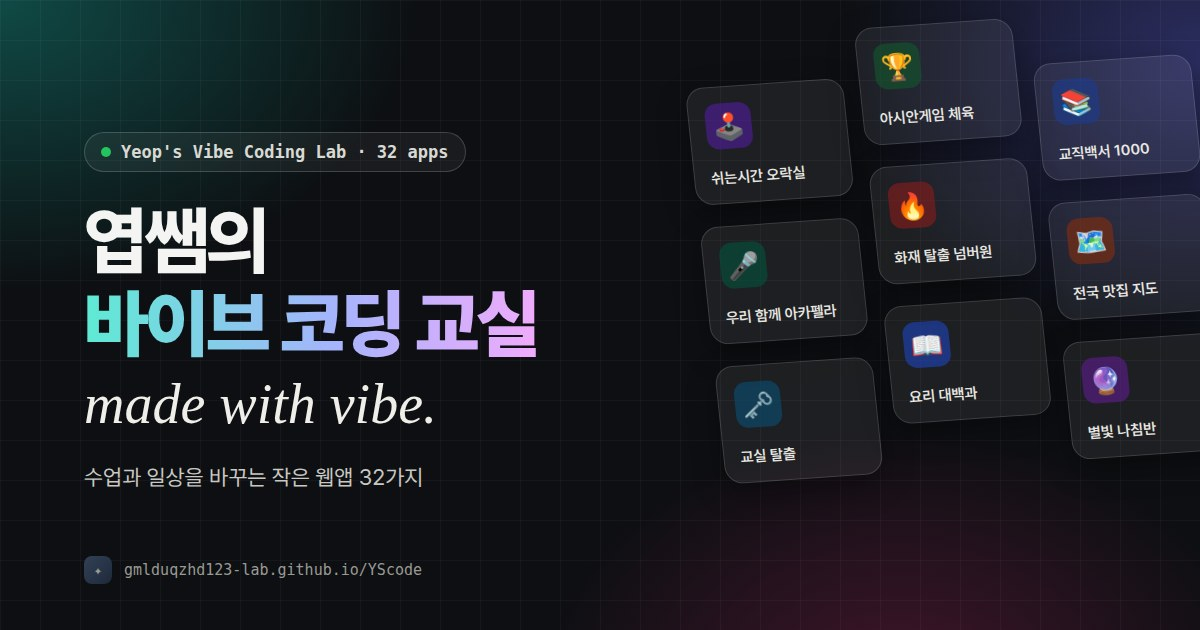
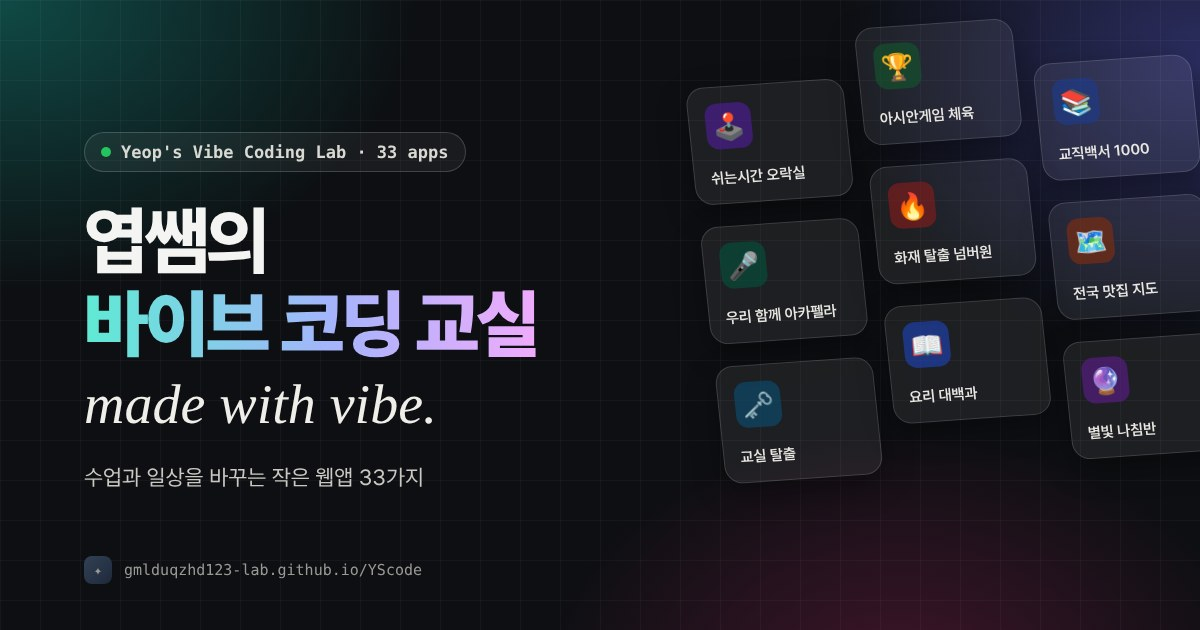
모음집에 책숲(수업용) 추가, 공유 정보 33가지로 갱신, 스킬에 공유 그림 스크립트 추가 (#54)
Claude-Session: https://claude.ai/code/session_01NaW5r8WBzNy5B2e9iMgdZz

diff --git a/index.html b/index.html
@@ -16,18 +16,18 @@
     <meta name="apple-mobile-web-app-status-bar-style" content="black-translucent">
     <meta property="og:type" content="website">
     <meta property="og:title" content="엽쌤의 바이브 코딩 교실">
-    <meta property="og:description" content="수업과 일상을 바꾸는 작은 웹앱 32가지 · 설치 없이 바로 열려요">
+    <meta property="og:description" content="수업과 일상을 바꾸는 작은 웹앱 33가지 · 설치 없이 바로 열려요">
     <meta property="og:site_name" content="엽쌤스쿨">
-    <meta property="og:image" content="https://gmlduqzhd123-lab.github.io/YScode/og-image.jpg?v=20261026">
-    <meta property="og:image:secure_url" content="https://gmlduqzhd123-lab.github.io/YScode/og-image.jpg?v=20261026">
+    <meta property="og:image" content="https://gmlduqzhd123-lab.github.io/YScode/og-image.jpg?v=20261031">
+    <meta property="og:image:secure_url" content="https://gmlduqzhd123-lab.github.io/YScode/og-image.jpg?v=20261031">
     <meta property="og:image:type" content="image/jpeg">
     <meta property="og:image:width" content="1200">
     <meta property="og:image:height" content="630">
-    <meta property="og:image:alt" content="엽쌤의 바이브 코딩 교실 — 웹앱 32가지">
+    <meta property="og:image:alt" content="엽쌤의 바이브 코딩 교실 — 웹앱 33가지">
     <meta property="og:url" content="https://gmlduqzhd123-lab.github.io/YScode/">
     <meta property="og:locale" content="ko_KR">
     <meta name="twitter:card" content="summary_large_image">
-    <meta name="twitter:image" content="https://gmlduqzhd123-lab.github.io/YScode/og-image.jpg?v=20261026">
+    <meta name="twitter:image" content="https://gmlduqzhd123-lab.github.io/YScode/og-image.jpg?v=20261031">
     <script>
         // 첫 화면이 그려지기 전에 테마를 적용해 깜빡임 방지
         (function () {
@@ -897,6 +897,16 @@
                 icon: '🛠',
                 desc: '목표→요청→실행→검사·수정→설명으로 바이브 코딩을 체험하는 12개 미션 (초등 5~6학년)',
                 url: 'https://gmlduqzhd123-lab.github.io/Vibe-for-U/'
+            },
+            {
+                id: 'ys-reading',
+                cover: 'covers/ys-reading.jpg',
+                accent: '#5f7a4f',
+                name: '책숲 · 생각이 자라는 독서 여행',
+                category: '수업용',
+                icon: '📖',
+                desc: '책을 읽고 질문을 만들고 글을 고쳐 쓰는 초등 독서인문교육 앱',
+                url: 'https://reading-blush-zeta.vercel.app/'
             },
             {
                 id: 'for-teacher',

diff --git a/.claude/skills/yeopssam-webapps/references/onboard-app.md b/.claude/skills/yeopssam-webapps/references/onboard-app.md
@@ -71,6 +71,7 @@ self.addEventListener('fetch', e => {
 - **게임(캔버스) 앱**: 시작 화면(오버레이 패널) 맨 위에 버튼을 둔다. 게임 중 화면은 건드리지 않는다.
 - **가로 전용 게임**(화재 탈출 넘버원, 조준! 각도왕, 오디세이 런): 세로 휴대폰에서는 '가로로 돌려주세요' 안내가 화면 전체를 덮어 버튼이 가려진다. 안내 화면 오른쪽 위에도 설치·QR을 넣는다. 측정기는 가려진 버튼도 "맨 윗줄"로 잴 수 있으니 **세로 390×844에서 QR을 실제로 눌러** 창이 열리는지 확인한다.
 - **Vite/React/TS 앱**(교실 탈출, 뚝딱 바이브 공작소, 오디세이 런, 다국어 수업자료 변환기 등): 키트·qr.svg·og-image·icons·manifest·sw.js는 `public/`에. `index.html`의 `<script src="./ys-install.js" defer>`는 빌드 때 "can't be bundled" 경고가 나지만 그대로 복사되어 정상. 서비스 워커 등록은 `src/main.ts(x)`에서 `if ("serviceWorker" in navigator && import.meta.env.PROD) navigator.serviceWorker.register(\`${import.meta.env.BASE_URL}sw.js\`)` (CSP `script-src 'self'`면 인라인 스크립트 금지이므로 이 방식). 화면을 JS로 다시 그리는 앱이라도 키트는 document 클릭 위임이라 버튼만 HTML에 있으면 된다.
+- **Vercel의 Next.js 앱**(한류, 엽쌤스쿨, 책숲 Ys-Reading-): 자기 주소를 따로 쓰므로 manifest `id: "/"`(`src/app/manifest.ts`), 키트·qr·og·icons·sw는 `public/`, `layout.tsx`에 `<script src="/ys-install.js" defer />`·`/ys-qr.js`와 `<html data-qr-url data-qr-src="/qr.svg" data-qr-name>`, metadata `openGraph`·`twitter`(절대 주소). 버튼은 공통 헤더 오른쪽, 하단 문구는 공통 footer에 `<p className="ys-credit">`. **로그인·학생 글이 있는 앱의 sw.js는 `/_next/static/`·icons 같은 정적 파일만 저장**하고 HTML·API는 저장하지 않는다(공용 기기에 학생 자료가 남지 않게). 확인은 `next start -p 3200` + `apps.json`에 `mode: next, port` 항목.
 - **터치 크기 점검이 있는 앱**(교실 탈출: 모든 보이는 버튼 44px 이상, 오디세이 런): 설치·QR 버튼 `min-height: 44px`.
 - **하단 문구가 두 번 보이는지**: 첫 화면과 작업 화면 footer가 따로 있는 앱(뚝딱 바이브 공작소)은 각 화면에서 하나만 보이는지 확인. 기존 CSS가 `footer span:last-child{display:none}`처럼 숨기면 `<p class="ys-credit">`로 넣는다.
 - **이미 자체 QR 기능이 있는 앱**(할로윈의 교사용 QR 창, 뚝딱 바이브의 QR 카드): 그대로 두고 상단 공통 버튼만 추가한다.

diff --git a/.claude/skills/yeopssam-webapps/references/app-changes.md b/.claude/skills/yeopssam-webapps/references/app-changes.md
@@ -11,6 +11,7 @@
 |---|---|---|
 | Reading-Handy | 모음집에 넣지 않음 | 웹앱이 아닌 손글씨 OCR 모델 저장소. 엽쌤이 "넣지 마"라고 함 |
 | Thinking (생각의 갈림길 AI) | 카드만 있음(설명 끝 "(개발판)"), **앱은 손대지 않음** | 개발 미리보기·검색 비노출·gh-pages 수동 배포·캐시 비저장 원칙. 엽쌤이 "작업하라고 할 때 하자"고 함. 저장소 CLAUDE.md에 '다른 엽쌤 앱 보호 규칙'을 넣어 둠. topcheck의 ❌·로컬 빌드 실패(모델 파일 없음)는 정상으로 보고 |
+| Reading-Mission (비공개) | 모음집에 넣지 않음 | 책숲(Ys-Reading-)의 예전 저장소. 공개·배포되는 것은 Ys-Reading- |
 | physical-pi(땀방울 원정대), nicehelperys(담임노트) | 카드만 있음 | 접근 권한 없음 |
 
 ## 2. 앱 이름이 바뀌었을 때 (예: 명운 → 별빛 나침반, 여순광 맛집 지도 → 전국 맛집 지도, 웜즈 → 조준! 각도왕)
@@ -23,5 +24,5 @@
 ## 3. 모음집(YScode) 공유 정보
 - `og:description`·`og:image:alt`와 `og-image.jpg` 안에 앱 개수("N가지", "N apps")와 대표 앱 이름이 들어 있다. 앱을 넣거나 이름이 바뀌면 낡는다.
 - 개수 = 모음집 카드 수: `grep -cE "^\s+name: '" index.html` (접근 불가 카드 포함).
-- og-image는 HTML(왼쪽 제목·pill·"made with vibe.", 오른쪽 기울어진 앱 타일 9개)을 Pretendard(`$YS_FONT`)로 그려 Playwright로 1200×630 JPEG 스크린샷 → `og-image.jpg`, 주소에 `?v=날짜`.
+- og-image는 `bash scripts/make-hub-og.sh`로 다시 그린다(개수 자동). HTML(왼쪽 제목·pill·"made with vibe.", 오른쪽 기울어진 앱 타일 9개)을 Pretendard(`$YS_FONT`)로 그려 Playwright로 1200×630 JPEG 스크린샷 → `og-image.jpg`, 주소에 `?v=날짜`.
 - 썸네일·커버에 버전 숫자를 넣으면 앱이 올라갈 때마다 어긋난다(매쓰 서바이벌 2.1 vs 3.0.2). 넣을 때는 앱의 공유 제목(og:title)과 맞춘다.
